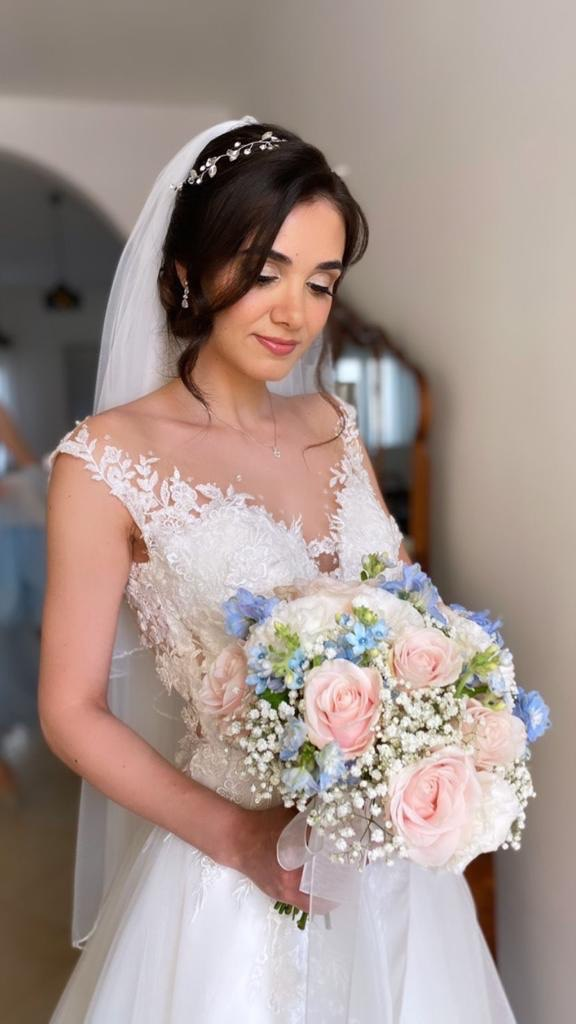
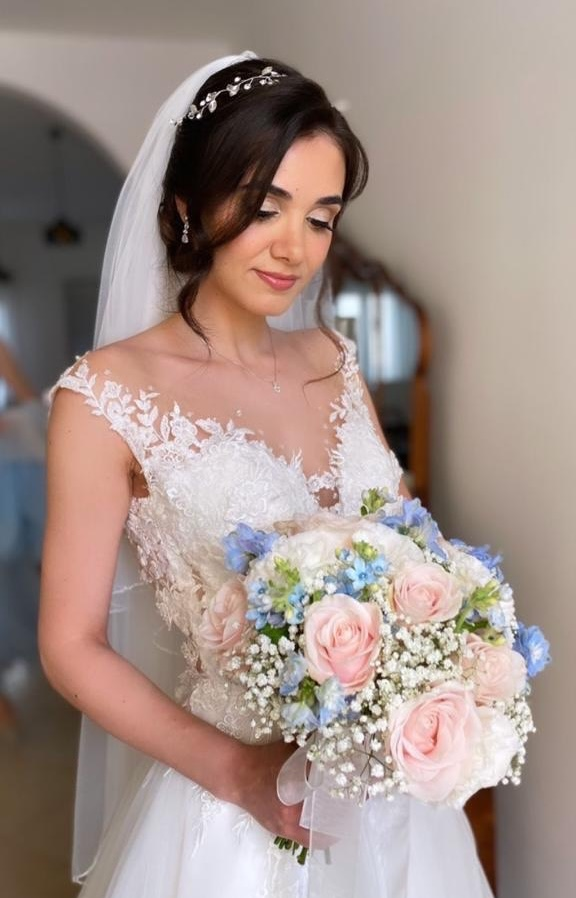
style refinements

diff --git a/root/client/src/assets/content/content.jsx b/root/client/src/assets/content/content.jsx
@@ -77,7 +77,7 @@ export const dove_i_sogni = {
 }
 
 export const scenografie_d_amore = {
-  picture: img.home.fiori,
+  picture: img.home.danielafull,
   title: "Scenografie d'amore",
   subtitle: "La regia del vostro giorno perfetto",
   paragraph: "Non esistono due matrimoni uguali, perché non esistono due storie identiche. \
@@ -264,14 +264,14 @@ export const salento = {
   paragraph:
     <>
       <p
-        className="paragraph"
+        className="paragraph text-left"
       >
         Il Salento è una terra di luce, di pietra leccese e di orizzonti infiniti.
         Tra masserie storiche, ville sul mare e giardini mediterranei, ogni venue
         racconta una storia unica: la vostra.
       </p>
       <p
-        className="paragraph"
+        className="paragraph text-left"
       >
         Organizziamo matrimoni ed eventi in tutta la penisola salentina: da Lecce
         a Otranto, da Gallipoli alle campagne di Nardò, portando eleganza e cura
@@ -394,7 +394,7 @@ export const se_dovessi_descrivermi = {
         "Quando c'è un obiettivo da raggiungere non c'è ostacolo che possa farmi desistere.",
     },
     {
-      src: img.creative,
+      src: img.chisono.chiesa,
       alt: "Creative",
       titolo: "Appassionata",
       testo: "Amo ciò che faccio e ci metto tutta me stessa.",

diff --git a/root/client/src/components/Cards.jsx b/root/client/src/components/Cards.jsx
@@ -38,11 +38,11 @@ export default function Cards({ title, subtitle, cards }) {
             >
 
               {/* ICON */}
-              <img
+              {/* <img
                 src={card.src}
                 alt={card.alt}
                 className="w-auto h-30 lg:w-20 lg:h-20 object-contain flex-shrink-0"
-              />
+              /> */}
 
               {/* TEXT */}
               <div className="text-left lg:text-left">
@@ -50,7 +50,7 @@ export default function Cards({ title, subtitle, cards }) {
                   {card.titolo}
                 </h3>
 
-                <p className="paragraph mt-2">
+                <p className="paragraph mt-4 text-left">
                   {card.testo}
                 </p>
               </div>

diff --git a/root/client/src/components/TxtLayout.jsx b/root/client/src/components/TxtLayout.jsx
@@ -18,7 +18,7 @@ export default function TxtLayout({ title, subtitle, paragraph, cards, quote_blo
 
           <div className="w-20 h-px bg-primary mb-8" />
 
-          <p className="paragraph mb-8">
+          <p className="paragraph mb-8 text-left">
             {paragraph}
           </p>
         </div>
@@ -41,7 +41,7 @@ export default function TxtLayout({ title, subtitle, paragraph, cards, quote_blo
                     {card.title}
                   </h3>
 
-                  <p className="paragraph">
+                  <p className="paragraph text-left">
                     {card.text}
                   </p>
                 </div>
@@ -62,7 +62,7 @@ export default function TxtLayout({ title, subtitle, paragraph, cards, quote_blo
               {title_2}
             </h3>
 
-            <p className="paragraph mb-16">
+            <p className="paragraph mb-16 text-left">
               {paragraph_2}
             </p>
 

diff --git a/root/client/src/components/Map.jsx b/root/client/src/components/Map.jsx
@@ -88,7 +88,7 @@ function SalentoSection({ image, title, subtitle, paragraph }) {
           </div>
 
           {/* Testo */}
-          <div className="flex flex-col gap-6 text-center lg:text-left order-1">
+          <div className="flex flex-col gap-6 lg:text-left order-1">
 
             <div className="flex items-center gap-3 justify-center lg:justify-start">
               <div className="w-8 h-px bg-secondary-dark"/>
@@ -109,7 +109,9 @@ function SalentoSection({ image, title, subtitle, paragraph }) {
               className="w-10 h-px mx-auto lg:mx-0 bg-secondary-dark"
             />
 
+            <p className="paragraph text-left">
             {paragraph}
+            </p>
 
             <div className="flex flex-wrap gap-2 justify-center lg:justify-start mt-2">
               {["Lecce", "Otranto", "Gallipoli", "Nardò", "Galatina", "Maglie"].map((loc) => (

diff --git a/root/client/src/components/ServiceExplorer.jsx b/root/client/src/components/ServiceExplorer.jsx
@@ -52,7 +52,7 @@ function ServiceExplorer({ title, subtitle, paragraph, data }) {
                   {item.title}
                 </p>
                 <p className={`
-                  paragraph text-sm m-0 p-0
+                  paragraph text-sm m-0 p-0 text-left
                   ${
                     active === index
                       ? "text-secondary-light/70"
@@ -76,7 +76,7 @@ function ServiceExplorer({ title, subtitle, paragraph, data }) {
                 {data[active].title}
               </h3>
 
-              <p className="paragraph">
+              <p className="paragraph text-left">
                 {data[active].description}
               </p>
 

diff --git a/root/client/src/components/BoxToForm.jsx b/root/client/src/components/BoxToForm.jsx
@@ -15,7 +15,7 @@ export default function BoxToForm({ title, subtitle, img, paragraph }) {
 
       {/* BOX centrale */}
       <div
-        className="flex z-10 w-full max-w-xl flex flex-col items-center text-center gap-4 p-4 md:p-8 bg-secondary-light shadow-md"
+        className="flex z-10 w-full max-w-xl flex flex-col items-center text-center gap-4 p-8 md:p-16 bg-secondary-light shadow-md"
       >
 
         {/* Immagine */}

diff --git a/root/client/src/components/ImgTxt.jsx b/root/client/src/components/ImgTxt.jsx
@@ -55,7 +55,7 @@ export default function ImgTxt({ picture, title, subtitle, paragraph, reverse = 
 
             <div className="w-16 h-px bg-black/20 mx-auto lg:mx-0" />
 
-            <p className="paragraph">
+            <p className="paragraph text-left">
               {paragraph}
             </p>
 

diff --git a/root/client/src/components/TxtImg.jsx b/root/client/src/components/TxtImg.jsx
@@ -21,7 +21,7 @@ export default function TxtImg({ picture, title, subtitle, paragraph }) {
               </h3>
             )}
 
-            <p className="paragraph text-justify">
+            <p className="paragraph text-left">
               {paragraph}
             </p>
 

diff --git a/root/client/src/styles/global.css b/root/client/src/styles/global.css
@@ -79,7 +79,7 @@ body {
   }
 
   .paragraph {
-    @apply max-w-2xl mx-auto mt-6 text-black/60 font-light leading-relaxed text-justify;
+    @apply max-w-2xl mx-auto mt-6 text-black/60 font-light leading-relaxed text-center;
   }
   
   .clickable-image {

diff --git a/root/client/src/components/Carousel_v2.jsx b/root/client/src/components/Carousel_v2.jsx
@@ -118,6 +118,7 @@ export default function Carousel({ tipi }) {
                   {/* DESCRIZIONE */}
                   <p className="
                     paragraph
+                    text-left
                     mb-6
                   ">
                     {tipo.descrizione}